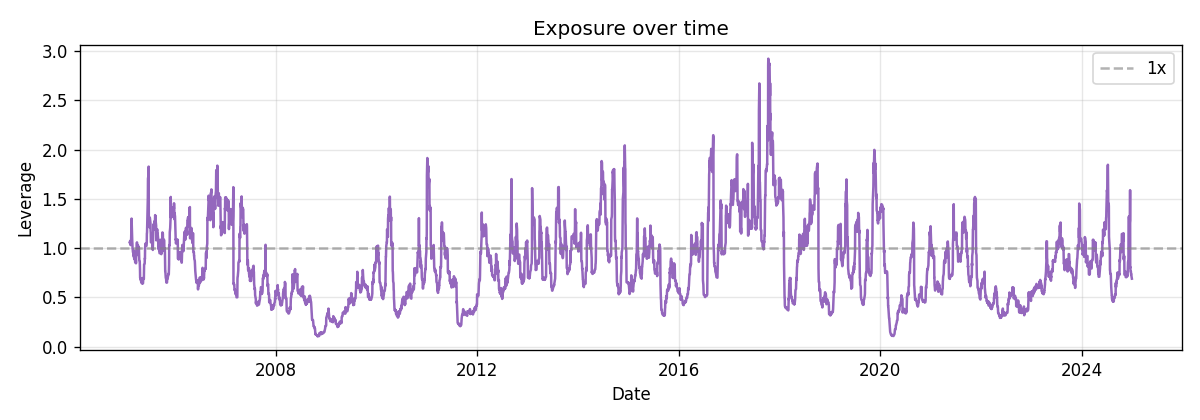
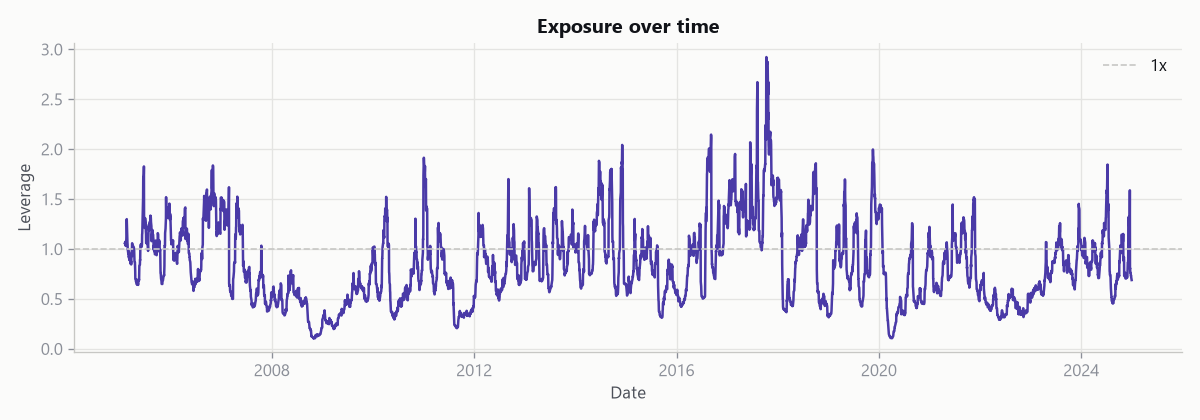
Replace default matplotlib styling with a validated chart style
Verified end to end first: pytest (16/16) and a live run of run.py
against yfinance both pass. Swapped unstyled matplotlib defaults for
viz_style.py, a light analytics surface with a categorical palette
validated for colorblind-safe adjacent contrast (dataviz six-checks all
pass), matching the treatment applied to portfolio-analysis.

Changed region(s): [[0.0, 0.031, 0.9867, 0.8976], [0.4933, 0.9286, 0.555, 0.9595]]

diff --git a/src/vol_targeting/plotting.py b/src/vol_targeting/plotting.py
@@ -12,6 +12,8 @@ from pathlib import Path
 import matplotlib.pyplot as plt
 import pandas as pd
 
+from . import viz_style
+
 
 def plot_equity_curve(
     strategy_equity: pd.Series,
@@ -19,29 +21,32 @@ def plot_equity_curve(
     title: str = "Volatility targeting vs buy and hold",
 ):
     """Strategy equity against a buy-and-hold of the same asset."""
+    viz_style.apply()
     bh_equity = (1.0 + buy_and_hold_returns).cumprod()
     fig, ax = plt.subplots(figsize=(10, 5))
-    ax.plot(strategy_equity.index, strategy_equity.values, label="Vol targeted")
-    ax.plot(bh_equity.index, bh_equity.values, label="Buy and hold", alpha=0.7)
+    ax.plot(strategy_equity.index, strategy_equity.values,
+           color=viz_style.INK, linewidth=2.2, label="Vol targeted")
+    ax.plot(bh_equity.index, bh_equity.values,
+           color=viz_style.BLUE, linewidth=1.6, alpha=0.85, label="Buy and hold")
     ax.set_title(title)
     ax.set_ylabel("Growth of 1 unit")
     ax.set_xlabel("Date")
     ax.legend()
-    ax.grid(True, alpha=0.3)
     fig.tight_layout()
     return fig
 
 
 def plot_leverage(leverage: pd.Series, title: str = "Exposure over time"):
     """The leverage actually applied each day."""
+    viz_style.apply()
     fig, ax = plt.subplots(figsize=(10, 3.5))
-    ax.plot(leverage.index, leverage.values, color="tab:purple")
-    ax.axhline(1.0, color="grey", linestyle="--", alpha=0.6, label="1x")
+    ax.plot(leverage.index, leverage.values, color=viz_style.VIOLET, linewidth=1.5)
+    ax.axhline(1.0, color=viz_style.BASELINE, linestyle="--", linewidth=1,
+              label="1x")
     ax.set_title(title)
     ax.set_ylabel("Leverage")
     ax.set_xlabel("Date")
     ax.legend()
-    ax.grid(True, alpha=0.3)
     fig.tight_layout()
     return fig
 
@@ -50,14 +55,16 @@ def plot_realized_vol(
     realized_vol: pd.Series, target: float, title: str = "Estimated volatility"
 ):
     """The volatility estimate used for sizing, against the target."""
+    viz_style.apply()
     fig, ax = plt.subplots(figsize=(10, 3.5))
-    ax.plot(realized_vol.index, realized_vol.values, label="Estimated vol")
-    ax.axhline(target, color="tab:green", linestyle="--", label="Target")
+    ax.plot(realized_vol.index, realized_vol.values,
+           color=viz_style.BLUE, linewidth=1.5, label="Estimated vol")
+    ax.axhline(target, color=viz_style.AQUA, linestyle="--", linewidth=1.4,
+              label="Target")
     ax.set_title(title)
     ax.set_ylabel("Annualized volatility")
     ax.set_xlabel("Date")
     ax.legend()
-    ax.grid(True, alpha=0.3)
     fig.tight_layout()
     return fig
 

diff --git a/src/vol_targeting/viz_style.py b/src/vol_targeting/viz_style.py
@@ -1,0 +1,53 @@
+"""Shared chart style: a validated categorical palette on a clean light
+surface, styled for a quant/analytics register rather than matplotlib
+defaults."""
+
+from __future__ import annotations
+
+import matplotlib as mpl
+from matplotlib.colors import LinearSegmentedColormap
+
+SURFACE = "#fbfbfa"
+INK = "#111318"
+INK_2 = "#4b4f58"
+MUTED = "#8b8f98"
+GRID = "#e4e4e2"
+BASELINE = "#c7c7c4"
+
+# Fixed-order categorical set (validated: adjacent-pair CVD dE >= 8, normal
+# vision floor >= 15 on this surface). Never cycle past what's needed.
+SERIES = ["#2a78d6", "#eb6834", "#1baf7a", "#4a3aa7", "#e34948", "#eda100"]
+BLUE, ORANGE, AQUA, VIOLET, RED, YELLOW = SERIES
+
+DIVERGE_NEG, DIVERGE_MID, DIVERGE_POS = "#e34948", "#f0efec", "#2a78d6"
+
+
+def apply() -> None:
+    mpl.rcParams.update({
+        "figure.facecolor": SURFACE,
+        "axes.facecolor": SURFACE,
+        "savefig.facecolor": SURFACE,
+        "axes.edgecolor": BASELINE,
+        "axes.labelcolor": INK_2,
+        "axes.titlecolor": INK,
+        "axes.titleweight": "bold",
+        "axes.titlesize": 12,
+        "axes.grid": True,
+        "grid.color": GRID,
+        "grid.linewidth": 0.8,
+        "axes.spines.top": False,
+        "axes.spines.right": False,
+        "xtick.color": MUTED,
+        "ytick.color": MUTED,
+        "text.color": INK,
+        "font.family": "sans-serif",
+        "font.sans-serif": ["Segoe UI", "Arial", "sans-serif"],
+        "lines.linewidth": 2,
+        "legend.frameon": False,
+        "figure.dpi": 120,
+    })
+
+
+def diverging_cmap():
+    return LinearSegmentedColormap.from_list(
+        "diverge", [DIVERGE_NEG, DIVERGE_MID, DIVERGE_POS])
